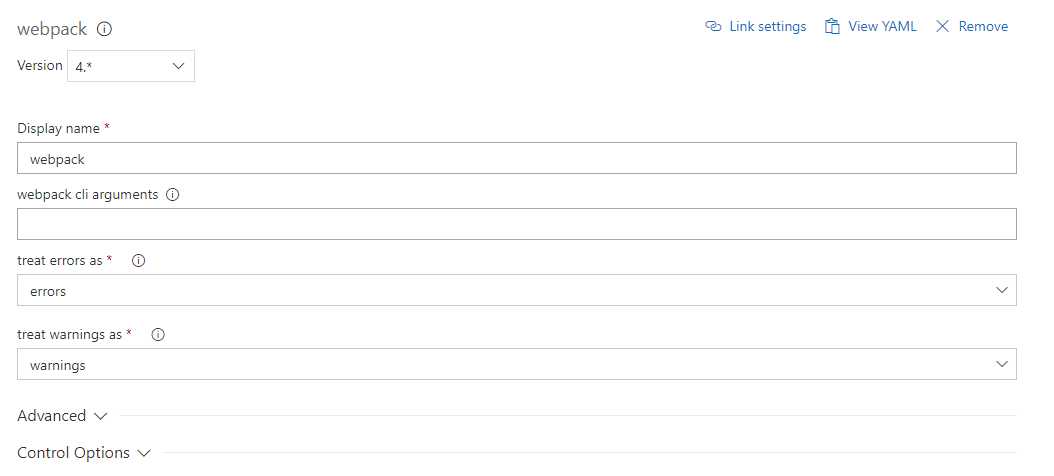
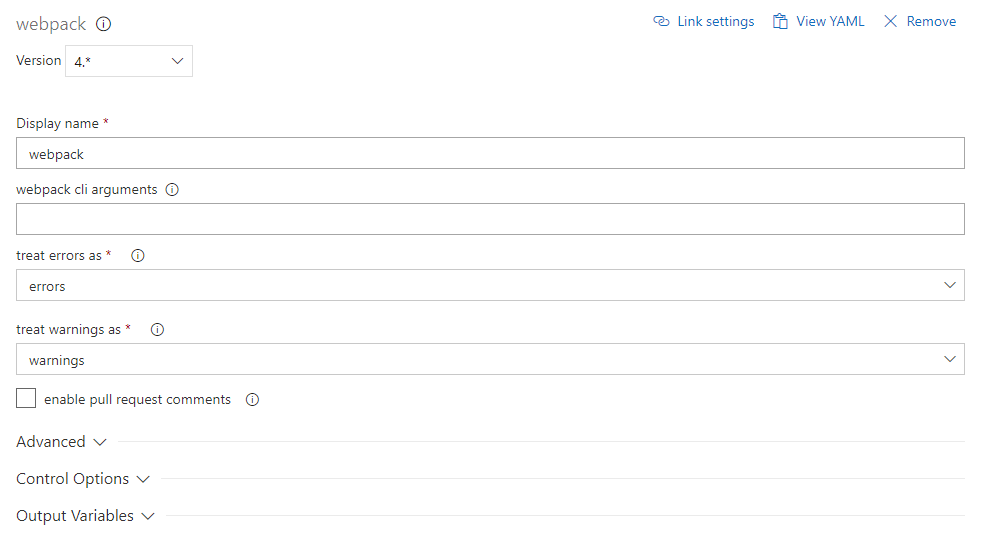
Feature/better error handling for pull request commenting (#79)
Better documentation.
Better error handling for pull request commenting.
Getting of the last iteration id of the pull request is fixed.

diff --git a/tasks/webpack-build-task/taskResultPublisher/publishResultAsPullRequestComments.ts b/tasks/webpack-build-task/taskResultPublisher/publishResultAsPullRequestComments.ts
@@ -34,18 +34,31 @@ const parseMessages = (taskDisplayName: string, messagesToParse: string[]) => {
 };
 
 const getGitApi = async () => {
-    const accessToken = tl.getVariable("System.AccessToken");
-    const collectionUri = tl.getVariable("System.TeamFoundationCollectionUri");
+    try {
+        const accessToken = tl.getVariable("System.AccessToken");
 
-    const authHandler = vstsApi.getBearerHandler(accessToken);
-    const connection = new vstsApi.WebApi(collectionUri, authHandler);
+        if (!accessToken) {
+            console.log("Please allow scripts to access OAuth token in the additional optionts of the agent phase.");
 
-    return await connection.getGitApi();
+            return null;
+        }
+
+        const collectionUri = tl.getVariable("System.TeamFoundationCollectionUri");
+
+        const authHandler = vstsApi.getBearerHandler(accessToken);
+        const connection = new vstsApi.WebApi(collectionUri, authHandler);
+
+        return await connection.getGitApi();
+    } catch (err) {
+        console.log("Could not connect to VSTS API.");
+
+        throw err;
+    }
 };
 
 const getThreads = async (gitApi: GitApi, project: string, repositoryId: string, pullRequestId: number) => {
     const pullRequestIterations = await gitApi.getPullRequestIterations(repositoryId, pullRequestId, project);
-    const lastIterationId = pullRequestIterations[pullRequestIterations.length].id;
+    const lastIterationId = pullRequestIterations[pullRequestIterations.length - 1].id;
 
     return await gitApi.getThreads(repositoryId, pullRequestId, project, lastIterationId, lastIterationId);
 };

diff --git a/tasks/webpack-build-task/taskResultPublisher/index.ts b/tasks/webpack-build-task/taskResultPublisher/index.ts
@@ -64,7 +64,12 @@ const publishTaskResult = async (
             }
         }
 
-        await publishResultAsPullRequestComments(enablePullRequestComments, taskDisplayName, errorsArray, warningsArray);
+        try {
+            await publishResultAsPullRequestComments(enablePullRequestComments, taskDisplayName, errorsArray, warningsArray);
+        } catch (error) {
+            console.log("Couldn't publish result as pull request comments. The reason is:");
+            console.log(error);
+        }
 
         const taskFailed = (hasErrors && treatErrorsAs === errors) || (hasWarnings && treatWarningsAs === errors);
         const taskPartiallySucceeded = !taskFailed && ((hasErrors && treatErrorsAs === warnings) || (hasWarnings && treatWarningsAs === warnings));

diff --git a/DETAILS.md b/DETAILS.md
@@ -52,6 +52,15 @@ Errors and Warnings can be treated differently:
 
 Warnings means the task will partially succeed, in case of errors the task will fail. If there are no errors and no warnings, then the task will succeed. You can treat the errors as warnings, so in case of errors, the task will just partially succeed. Or if you would like to ignore the warnings, those should be handled as info.
 
+Errors and Warnings can be reported as pull request comments. Currently only two loaders are supported:
+* ts-loader
+* tslint-loader
+
+Even general webpack errors and warnings are not supported yet. More support will come!
+
+Don't forget to turn on the following agent phase setting:
+![Prerequisite for pull request commenting](https://raw.githubusercontent.com/Dealogic/webpack-vsts-extension/master/screenshots/PullRequestCommentingPrerequisite.png)
+
 ![webpack arguments](https://raw.githubusercontent.com/Dealogic/webpack-vsts-extension/master/screenshots/WebpackArguments.png)
 
 The webpack build errors and warnings are reported under the issues / build section on the summary page:
@@ -61,12 +70,6 @@ The webpack build errors and warnings are reported under the issues / build sect
 The webpack build result section is added onto the summary page to summarize the result:
 
 ![webpack build result](https://raw.githubusercontent.com/Dealogic/webpack-vsts-extension/master/screenshots/WebpackBuildResult.png)
-
-Errors and Warnings can be reported as pull request comments. Currently only two loaders are supported:
-* ts-loader
-* tslint-loader
-
-Even general webpack errors and warnings are not supported yet. More support will come!
 
 ### <a id="advanced-settings"></a>Advanced Settings
 
@@ -109,7 +112,7 @@ stats.js Location | true | ./node_modules/webpack/lib/Stats.js | Location of the
 
 ## <a id="release-notes"></a>Release Notes
 
-* 4.1.0 (22/08/2018)
+* 4.1.1 (23/08/2018)
     * Errors and warnings can be reported as pull request comments (ts-loader and tslint-loader are supported, more will come).
 * 4.0.4 (24/05/2018)
     * Dependencies are updated to fix security vulnerabilities (though it was just in one of the samples).

diff --git a/README.md b/README.md
@@ -52,6 +52,15 @@ Errors and Warnings can be treated differently:
 
 Warnings means the task will partially succeed, in case of errors the task will fail. If there are no errors and no warnings, then the task will succeed. You can treat the errors as warnings, so in case of errors, the task will just partially succeed. Or if you would like to ignore the warnings, those should be handled as info.
 
+Errors and Warnings can be reported as pull request comments. Currently only two loaders are supported:
+* ts-loader
+* tslint-loader
+
+Even general webpack errors and warnings are not supported yet. More support will come!
+
+Don't forget to turn on the following agent phase setting:
+![Prerequisite for pull request commenting](https://raw.githubusercontent.com/Dealogic/webpack-vsts-extension/master/screenshots/PullRequestCommentingPrerequisite.png)
+
 ![webpack arguments](https://raw.githubusercontent.com/Dealogic/webpack-vsts-extension/master/screenshots/WebpackArguments.png)
 
 The webpack build errors and warnings are reported under the issues / build section on the summary page:
@@ -61,12 +70,6 @@ The webpack build errors and warnings are reported under the issues / build sect
 The webpack build result section is added onto the summary page to summarize the result:
 
 ![webpack build result](https://raw.githubusercontent.com/Dealogic/webpack-vsts-extension/master/screenshots/WebpackBuildResult.png)
-
-Errors and Warnings can be reported as pull request comments. Currently only two loaders are supported:
-* ts-loader
-* tslint-loader
-
-Even general webpack errors and warnings are not supported yet. More support will come!
 
 ### <a id="advanced-settings"></a>Advanced Settings
 
@@ -109,7 +112,7 @@ stats.js Location | true | ./node_modules/webpack/lib/Stats.js | Location of the
 
 ## <a id="release-notes"></a>Release Notes
 
-* 4.1.0 (22/08/2018)
+* 4.1.1 (23/08/2018)
     * Errors and warnings can be reported as pull request comments (ts-loader and tslint-loader are supported, more will come).
 * 4.0.4 (24/05/2018)
     * Dependencies are updated to fix security vulnerabilities (though it was just in one of the samples).
